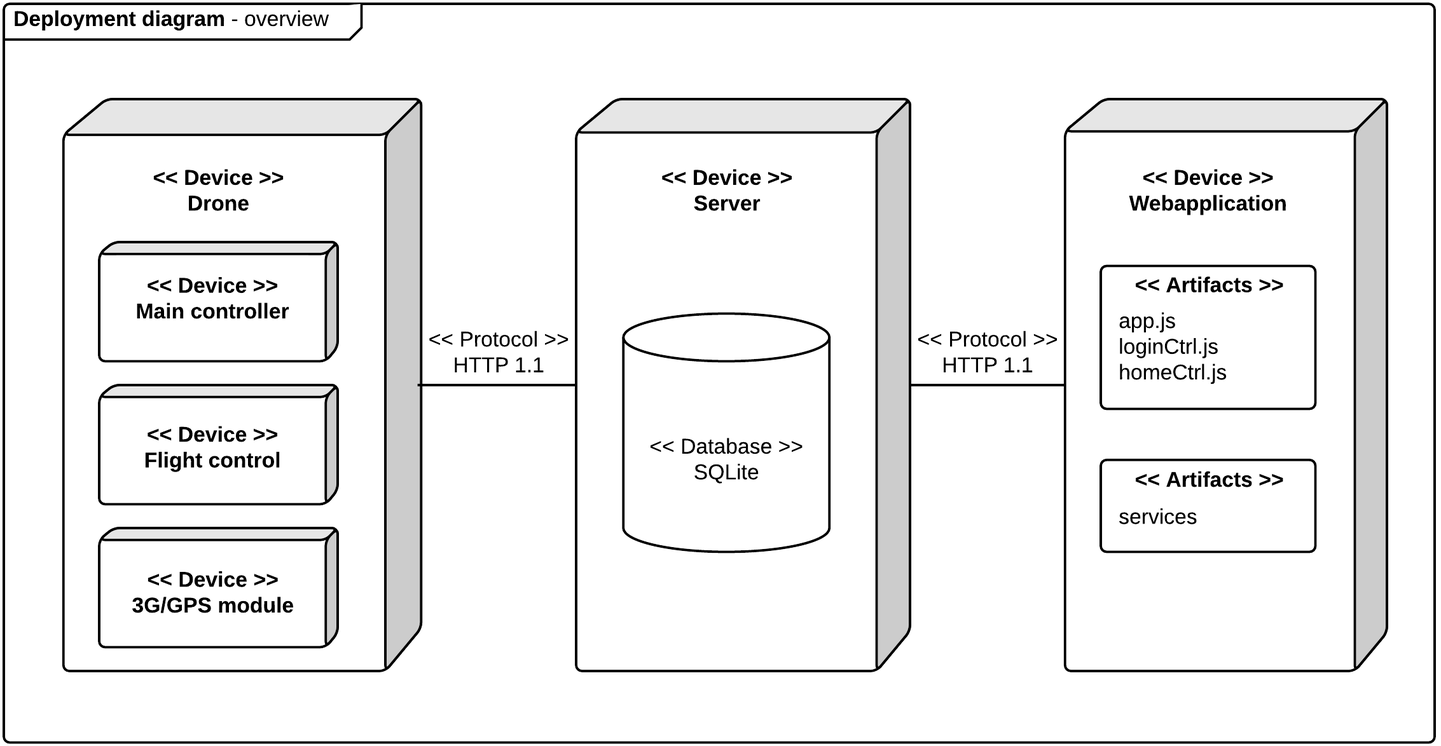
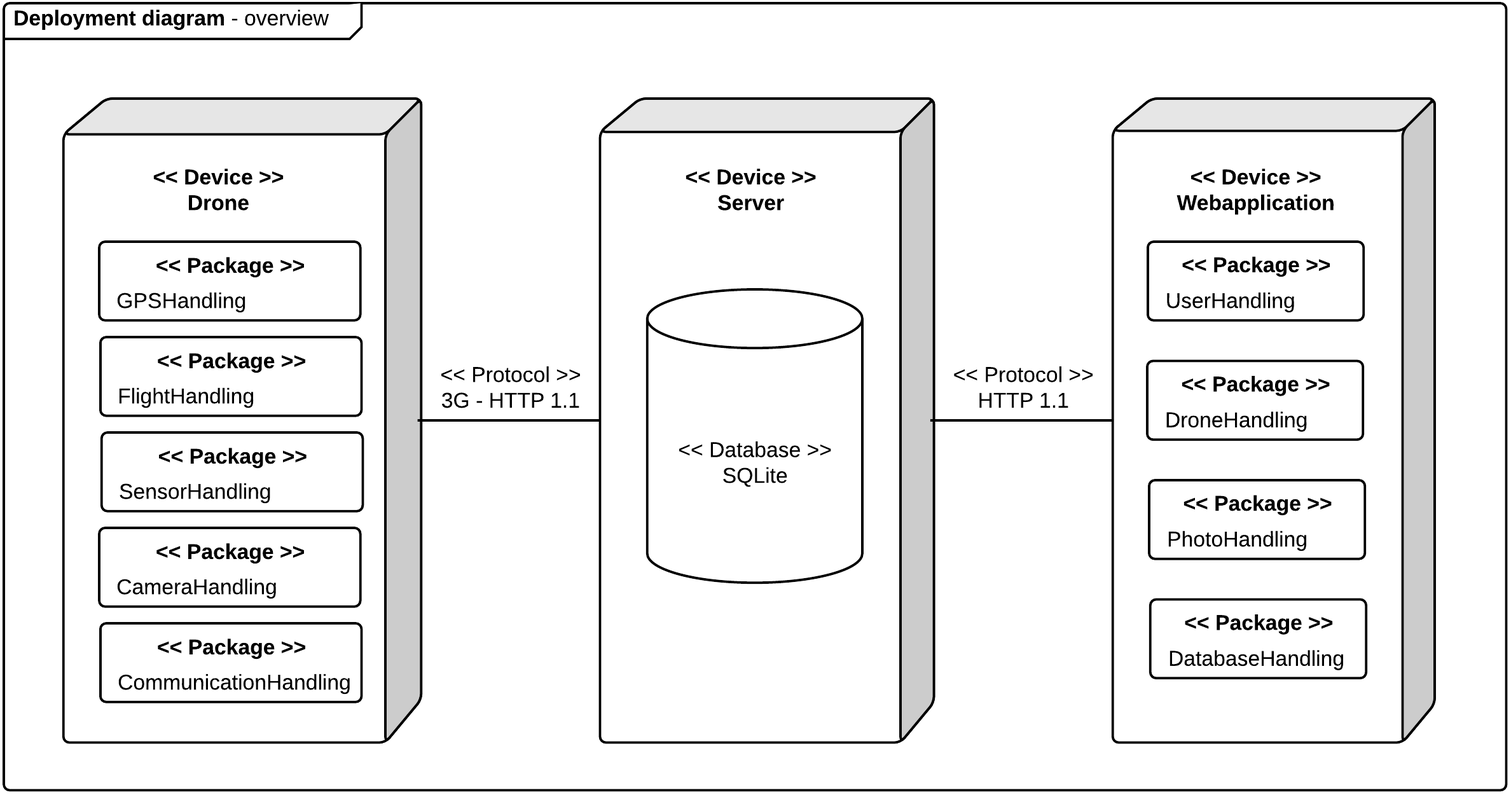
Rette iteration 1 logical view

diff --git a/5.Transition/Dokumentation/Systemarkitektur/Kapitler/software/views/logicalview_iteration_1.tex b/5.Transition/Dokumentation/Systemarkitektur/Kapitler/software/views/logicalview_iteration_1.tex
@@ -1,8 +1,7 @@
 \subsection{Iteration \#1}
-\vspace{-0.4cm}
+\vspace{-0.6cm}
 I iteration 1 arbejdes der med blokke som dækker over systemets mest grundlæggende funktionalitet. Batteri, ESC’er, motorer og sensorer tilsluttes dronen, og dronen gøres desuden i stand til oprette forbindelse til webapplikationen via 3G-shield’et.
-Server opsættes, så at basal kommunikation mellem dronen og server er muligt. Det skal bla. være muligt for dronen at uploade sin nuværende position til server. For flere detaljer vedrørende opsætning og funktionalitet af server henvises til data view'et. 
-Hvordan systemet er tiltænkt at bruges beskrives i user story nedenfor:
+Server opsættes, så basal kommunikation mellem dronen og server er muligt, bla. skal det være muligt for dronen at uploade sin nuværende position til server. For flere detaljer vedrørende opsætning og funktionalitet af server henvises til data view'et. 
 
 \subsubsection*{User story}
 \vspace{-0.4cm}
@@ -12,9 +11,9 @@ Bruger tænder dronen ved at tilslutte batteri. Main controller samt 3G/GPS modu
 \begin{figure}[H]
 	\centering
 	\includegraphics[width=1\textwidth]{Billeder/design_overview/design_overview_iteration1.png}
-	\vspace{-.5cm}
-	\caption{Design overview \#iteration 1}
-	\label{fig:design_overview_UC1}
+	\vspace{-.7cm}
+	\caption{Designoverview}
+	\label{fig:design_overview_iteration_1}
 \end{figure}
 
 
@@ -47,48 +46,49 @@ I dette afsnit vises pakkediagram tilhørende webapplikationen. De pakker der vi
 	\centering
 	\includegraphics[width=1\textwidth]{Billeder/pakke_diagrammer/iteration1_server.png}
 	\vspace{-0.5cm}
-	\caption{Overordnet pakke diagram over webapplikationen}
+	\caption{Pakkediagram webapplikationen}
 	\label{fig:iteration1_pakke_diagram_webapp}
 \end{figure}
 
 \textbf{UserHandling}\\
-Pakkens ansvar er validering af login/log ud på websitet. Pakken har også ansvaret for at hente og gemme data om den pågældende bruger.
+Pakkens ansvar er validering af login/log ud på webapplikationen. Pakken har også ansvaret for at hente og gemme data om den pågældende bruger.
 
 \textbf{DatabaseHandling}\\
-Pakkens ansvar er kommunikation imellem databasen og serveren. 
+Pakkens ansvar er kommunikation imellem database og server. 
 
 
 \newpage
 \subsubsection*{Sekvensdiagram drone}
-På sekvensdiagrammet på figur \ref{fig:Sekvens_diagram_iteration1}, vises hvilke klasser der indgår og bruges i første iteration. Af sekvensdiagrammet fremgår det, at sekvensen først startes når bruger tilslutter batteri og tænder dronen. Når der er tilkoblet forsyning initialiseres main controller samt 3G/GPS og nuværende GPS position  (longitude og latitude) opdateres. Dronens nuværende GPS position opdateres når dronen sender PUT requests til websitet. PUT requests bruges dels til at fortælle websitet at dronen er online og dels til at give websitet information om dronens nuværende position. 
+På sekvensdiagrammet på figur \ref{fig:Sekvens_diagram_iteration1}, vises hvilke klasser der indgår og bruges i første iteration. Af sekvensdiagrammet fremgår det, at sekvensen først startes når bruger tilslutter batteri og tænder dronen. Når der er tilkoblet forsyning initialiseres main controller samt 3G/GPS og nuværende GPS position  (longitude og latitude) opdateres. Dronens nuværende GPS position sended via PUT requests til webapplikationen. PUT requests bruges dels til at fortælle webapplikationen at dronen er online og dels til at give webapplikationen information om dronens nuværende position. 
 
 %kommentar
 \begin{figure}[H]
 	\centering
 	\includegraphics[width=1\textwidth]{Billeder/sekvens/sekvens_iteration1}
-	\caption{Sekvens diagram \#iteration 1}
+	\caption{Overordnet sekvensdiagram}
 	\label{fig:Sekvens_diagram_iteration1}
 \end{figure}
 \newpage
 
-På figur \ref{fig:Sekvens_diagram_initialget} og figur \ref{fig:Sekvens_diagram_putDroneStatus} bliver 3G modulet yderligere uddybet.\\
-\ref{fig:Sekvens_diagram_initialget} viser hvilke klasser der anvendes til at hente data fra serveren. 
+Da boundary klassen \textit{3G} benytter tre underliggende klasser til håndtering af GET og PUT requests er sekvensdiagrammet på figur \ref{fig:Sekvens_diagram_iteration1} simplificeret. Sekvensdiagrammerne på figur \ref{fig:Sekvens_diagram_initialget} og \ref{fig:Sekvens_diagram_putDroneStatus} vises mere detaljeret hvordan 3G og underliggende klasser bruges til GET og PUT. \\
+
+Sekvensdiagrammet på figur \ref{fig:Sekvens_diagram_initialget} viser hvilke klasser der anvendes til håndtering af GET. 
 
 \begin{figure}[H]
 	\centering
 	\includegraphics[width=1\textwidth]{Billeder/sekvens/sekvens_iteration1_initialget}
-	\caption{Sekvens diagram \#iteration 1 - initialget}
+	\caption{Sekvensdiagram - initialget}
 	\label{fig:Sekvens_diagram_initialget}
 \end{figure}
 
 \vspace{.5cm}
 
-De data der hentes med GET requestet, bruges sammen med PUT requestet. For at kunne udføre et PUT request, skal data der ønskes sendt til server stemme overens med det data der i forvejen ligger på serveren.
+Sekvensdiagrammet på figur \ref{fig:Sekvens_diagram_putDroneStatus} viser hvilke klasser der anvendes til håndtering af PUT. 
 
 \begin{figure}[H]
 	\centering
 	\includegraphics[width=1\textwidth]{Billeder/sekvens/sekvens_iteration1_putdronestatus}
-	\caption{Sekvens diagram \#iteration 1 - putDroneStatus}
+	\caption{Sekvensdiagram - putDroneStatus}
 	\label{fig:Sekvens_diagram_putDroneStatus}
 \end{figure}
 
@@ -96,12 +96,12 @@ De data der hentes med GET requestet, bruges sammen med PUT requestet. For at ku
 \newpage
 
 \subsubsection*{Sekvensdiagram webapplikation}
-På figur \ref{fig:Sekvens_diagram_login} ses sekvens diagrammet over login på webappplikationen. På diagrammet vises det at useren først bliver ført til næste side ved succesfuld login. Diagrammet viser også kommunikationen med CRUDServiceDrone som kommunikerer med databasen. Diagrammet viser også hvordan AuthenticationServices setter den givet users data inden useren bliver ført vider i systemet.
+På figur \ref{fig:Sekvens_diagram_login} ses sekvens diagrammet over login på webappplikationen. På diagrammet vises det at systemets bruger først bliver ført til næste side ved succesfuld login. Diagrammet viser også kommunikationen med CRUDServiceDrone som kommunikerer med databasen. Ydermere viser diagrammet hvordan AuthenticationServices håndterer bruger data.
 
 \begin{figure}[H]
 	\centering
 	\includegraphics[width=1\textwidth]{Billeder/sekvens/login_sq_diagram.png}
-	\caption{Sekvens diagram login}
+	\caption{Sekvensdiagram - login}
 	\label{fig:Sekvens_diagram_login}
 \end{figure}
 \newpage
@@ -109,14 +109,14 @@ På figur \ref{fig:Sekvens_diagram_login} ses sekvens diagrammet over login på 
 
 \subsubsection*{Klassediagram drone}
 \vspace{-0.2cm}
-Figur \ref{fig:classDiagram_iteration1} vises et klassediagram tilhørende iteration 1. Klassediagrammet viser iterationens vigtigste klasser, samt deres tilhørende metoder og attributter. På den følgende side forefindes en kort beskrivelse klasserne og deres metoder.
+På figur \ref{fig:classDiagram_iteration1} vises et klassediagram som viser iterationens klasser, samt deres tilhørende metoder og attributter. På den følgende side forefindes en kort beskrivelse klasserne og deres ansvarsområder.
 
 %kommentar
 \begin{figure}[H]
 	\centering
 	\includegraphics[width=1\textwidth]{Billeder/klasse_diagrammer/classdiagram_iteration1.png}
 	\vspace{-0.5cm}
-	\caption{Klassediagram \#iteration 1}
+	\caption{Klassediagram drone}
 	\label{fig:classDiagram_iteration1}
 \end{figure}
 
@@ -126,62 +126,61 @@ Figur \ref{fig:classDiagram_iteration1} vises et klassediagram tilhørende itera
 Main.cpp filen bruges til at sætte arduino board korrekt op, bla. sættes baudrate på de forskellige serielle forbindelser. Desuden bruges Main.cpp til at kalde og eksekverer forskellige klasse, objekter og funktioner.
 
 \textbf{GPS} \\
-GPS klassen er implementeret som en abstract klasse, idet den ikke selv har nogle metoder den skal bruge, men med virtuelle metoder der sikrer at de implementeres i de afledte klasser. 
-Init og updateGPSPosition er valgt til at være virtuelle klasser, hvilket gør at de skal implementeres uanset hvilken GPS der bruges. Klassen er lavet fordi der i udgangspunkt var mulighed for at bruge 3 forskellige slags GPS modes med 3G/GPS shieldet. 
+GPS klassen er implementeret som en abstract klasse. Init og updateGPSPosition er lavet som virtuelle metoder, hvilket betyder de skal implementeres i alle afledte klasser. GPS klassen er lavet fordi 3G/GPS shieldet kunne bruges i 3 forskellige GPS modes. 
 
 \textbf{StandaloneGPS}\\
 Denne klasse er ansvarlig for al kommunikation med GPS'en når standalone mode er valgt. 
 
 \textbf{GetAndPut} \\
-GetAndPut klassen er den klasse der er tættest på hardwaren. Klassen indeholder de http metoder der bruges til kommunikation mellem dronen og serveren. 
+GetAndPut klassen er den klasse der er tættest på hardwaren. Klassen indeholder http metoder der bruges til kommunikation mellem dronen og serveren. 
 
 \textbf{Communication} \\
-Communication klassen er den øverste klasse og den håndterer sammen med andre klasser, alt der har med 3G at gøre.
+Communication klassen styrer alt der har med 3G kommunikation at gøre.
 
 \textbf{EventHandler} \\
-EventHandleren er den klasse der håndterer Events. EventHandleren er bindeledet mellem communication- og GetAndPut klassen. EventHandleren sorterer eventID'et fra de data den modtager og returnerer værdien til communication klassen. 
+EventHandleren klassen håndterer Events, og bruges som bindeled mellem communication- og GetAndPut klassen. EventHandleren sorterer eventID'et fra data der modtager og returnerer værdien af eventID til communication klassen. 
 
 
 \newpage
 
-\subsubsection*{Klassediagram website}
+\subsubsection*{Klassediagram webapplikation}
 \vspace{-0.2cm}
-Figur \ref{fig:classDiagram_login} viser klassediagrammet tilhørende websitet for iteration 1.
+Figur \ref{fig:classDiagram_webapplikation} viser klassediagrammet tilhørende webapplikation tilhørende iteration 1.
 \vspace{-0.2cm}
 \begin{figure}[H]
 	\centering
 	\includegraphics[width=1\textwidth]{Billeder/klasse_diagrammer/login_class_diagram.png}
 	\vspace{-0.5cm}
-	\caption{Klassediagram login}
-	\label{fig:classDiagram_login}
+	\caption{Klassediagram webapplikation}
+	\label{fig:classDiagram_webapplikation}
 \end{figure}
 
 \vspace{-0.2cm}
 
 \textbf{login} \\
-Denne klasse er view'et tilhørende iteration et. Denne klasse sammen med loginCtrl skaber det endelig view som brugeren ser i sin browser når han besøger siden.
+Denne klasse er view'et tilhørende iteration 1. Sammen med loginCtrl skaber Login klassen det view som bruger ser i sin browser.
 
 \textbf{loginCtrl} \\
-LoginCtrl er controller klassen som er forbundet med view klassen via two-way databinding. Klassen uddelegere også opgaver til dens services.
+LoginCtrl er en controller klasse som er forbundet med view klassen via two-way databinding. Klassen uddelegere også opgaver til dens services.
 
 \textbf{AuthenticationServices} \\
-AuthenticationServices klassen har ansvaret for at afgør om user er authenticated eller ej. Hvis user er authenticated bliver han redirected til websitets home-page. Klassen gør brug af UserServices klassen til at gemme information om den user der er logget ind i systemet.
+AuthenticationServices klassen er ansvarlig for at afgøre om bruger er authenticated eller ej. Hvis bruger er authenticated bliver han/hun redirected til webapplikations home-page. Klassen gør brug af UserServices klassen til at gemme information om den bruger der er logget ind på webapplikationen.
 
 \textbf{UserServices}\\
-UserServices bruges til at gemme information omkring hvilke bruger der er logget ind i systemet.
+UserServices bruges til at gemme information om hvilken bruger der er logget ind på webapplikationen.
 
 \textbf{CRUDServicesDrone}
-Denne klasse fungere som bindeled imellem server og webapplikation. Klassen indeholder alt logikken omkring kommunikation til serveren, alle der vil kommunikere med serveren i systemet skal benytte sig af denne klasse. Igennem denne service er det muligt at hente, opdater og poste data til serveren.
+Denne klasse bruges som bindeled imellem server og webapplikation. Klassen indeholder alt logik til kommunikation til serveren. Hver gang noget kommunikere med serveren benyttet klassen. Ved brug af CRUDServicesDrone kan man hente, opdatere og poste data til serveren.
 
 
 \subsubsection*{State machine diagram}
 \vspace{-0.1cm}
-I state machine diagrammet på figur \ref{fig:Statemachine_iteration1}, vises de forskellige states der eksisterer i iteration 1 og hvordan flowet imellem dem ser ud. Der eksisterer givet vis kun 2 states i iteration 1, men state machinen er medtaget fordi den på nem og overskuelig vis illustrerer systemflowet.
+I state machine diagrammet på figur \ref{fig:Statemachine_iteration1}, vises de forskellige states der eksisterer i iteration 1 og hvordan flowet imellem dem ser ud. Der eksisterer givet vis kun 1 state i iteration 1, men state machinen er medtaget fordi der bygges ovenpå den i de efterfølgende iterationer.
 %kommentar
 \begin{figure}[H]
 	\centering
 	\includegraphics[width=1\textwidth]{Billeder/statemachine/State_iteration1.png}
 	\vspace{-0.5cm}
-	\caption{Statemachine \#iteration 1}
+	\caption{State machine}
 	\label{fig:Statemachine_iteration1}
 \end{figure}

diff --git a/5.Transition/Dokumentation/Systemarkitektur/Kapitler/software/views/_n+1.tex b/5.Transition/Dokumentation/Systemarkitektur/Kapitler/software/views/_n+1.tex
@@ -15,13 +15,13 @@ N + 1 view modellen bruges til at beskrive software fra forskellige views. Model
 
 \newpage
 
-\subsection{View beskrivelser}
+\subsection{View beskrivelse}
 
 \textbf{Use case view}\\
-Use case viewet består af use case diagrammer, der er udviklet ud fra bruges synspunkt og som bruges til at beskrive systemets forskellige brugsscenarier. Alle udarbejdede use case diagrammer forefindes i kravspecifikationen.
+Use case viewet består af use case beskrivelser, der er udviklet ud fra bruges synspunkt og som bruges til at beskrive systemets forskellige brugsscenarier. Alle udarbejdede use case beskrivelser forefindes i kravspecifikationen.
 
 \textbf{Logical view}\\
-Logical viewet består af følgende fire diagrammer: Designoverview, pakke-, sekvens-, klasse- og state machine diagrammer.
+Logical viewet bygges op af følgende fem diagrammer: Designoverview, pakke-, sekvens-, klasse- og state machine diagrammer.
 Først udformes designoverview. Dernæst laves pakke og sekvensdiagrammer, og når de er udformet laves klassediagrammer. Til sidst udarbejdes state machines, som bruges til at beskrive flow mellem forskellige states.
 
 \textbf{Process view}\\
@@ -31,7 +31,8 @@ Process viewet beskriver de forskellige processer/tråde i systemet og hvordan s
 I data viewet beskrives layout af data der gemmes og hvordan det lagres. Desuden beskrives hvordan data sendes rundt i systemet og hvordan database tilgås. 
 
 \textbf{Deployment view}\\
-I deployment viewet kigges på systemets mest grundlæggende og overordnede klasser. Her beskrives det hvilke forskellige softwareklasser der bruges i hver af de grundlæggende klasser. Desuden beskrives hvilke protokoller der er anvendt i systemet, fx. layout af meddelelser med header/start/stop.   
+I deployment viewet vises hvilke software pakker der bruges i systemet og hvor de bruges. Desuden beskrives hvilke protokoller der er anvendt i systemet, fx. layout af meddelelser med header/start/stop. 
+  
 
 \textbf{Implementation view}\\
 I implementations viewet vises og beskrives hvilke værktøjer der er benyttet til projektet og hvordan disse værktøjer er sat op. Det beskrives også hvilke filer systemet er bygget af og hvordan disse filer skal linkes sammen. 

diff --git a/5.Transition/Dokumentation/Systemarkitektur/Kapitler/software/views/logicalview.tex b/5.Transition/Dokumentation/Systemarkitektur/Kapitler/software/views/logicalview.tex
@@ -1,22 +1,22 @@
 \section{Logical view}
-\vspace{-0.4cm}
+\vspace{-0.5cm}
 Logical view'et er udarbejdet efter de 4 iterationer defineret i kravspecifikationen. Den første iteration dækker systemets grundfunktionalitet, mens de øvrige iterationer bruges til at tilføje funktionalitet til systemet. 
 I logical view'et vil der forekomme diagrammer som er gråskraveret. De elementer der er gråskraverede er udarbejdet i tidligere iteration. Iteration 1 og 2 er designet og implementeret, mens iteration 3 og 4 kun er designet.
   
-Som beskrevet består logical viewet af designoverview, pakke-, sekvens-, klasse- og state machine diagrammer. Fælles for alle diagrammerne er, at de udformes ved brug af applikationsmodellen.
+Som beskrevet i afsnit 1.1.1 består logical viewet af designoverview, pakke-, sekvens-, klasse- og state machine diagrammer. Fælles for alle diagrammerne er, at de udformes ved brug af applikationsmodellen.
 
-\subsection{Applikationsmodel}
-\vspace{-0.4cm}
-Applikationsmodellen tager udgangspunkt i use cases beskrevet i kravspecifikationen og domain modellen, se figur \ref{fig:domain_model}. Domain modellen bruges til at identificere softwarepakke og deres tilhørende klasser. Desginoverview og sekvensdiagrammer fortæller og viser hvordan de forskellige klasser kommunikerer, og state machines bruges til at vise systemflow.
+\subsection*{Applikationsmodel}
+\vspace{-0.5cm}
+Applikationsmodellen tager udgangspunkt i use cases beskrevet i kravspecifikationen og domain modellen, se figur \ref{fig:domain_model}. Use cases og domain modellen bruges til at identificere softwarepakke og deres tilhørende klasser. Designoverview og sekvensdiagrammer fortæller og viser hvordan de forskellige klasser kommunikerer, mens state machines bruges til at vise systemflow.
 
 
 \input{kapitler/software/views/logicalview_iteration_1}
 
 \newpage
-\input{kapitler/software/views/logicalview_iteration_2}
+%\input{kapitler/software/views/logicalview_iteration_2}
 
 \newpage
-\input{kapitler/software/views/logicalview_iteration_3}
+%\input{kapitler/software/views/logicalview_iteration_3}
 
 \newpage
-\input{kapitler/software/views/logicalview_iteration_4}
+%\input{kapitler/software/views/logicalview_iteration_4}

diff --git a/5.Transition/Dokumentation/Systemarkitektur/Kapitler/domain_model.tex b/5.Transition/Dokumentation/Systemarkitektur/Kapitler/domain_model.tex
@@ -5,7 +5,7 @@ I kravspecifikation beskrives hvad der sker ved interaktion med systemet. Mens s
 
 På figur \ref{fig:domain_model} vises domain model tilhørende systemet. De fire øverste enheder i domain modellen dækker ansvarsområder som har med systemets webapplikation at gøre. De resterende enheder er alle tilknyttet ansvarsområder der omhandler dronen.
 
-På domain modellen vises det, at bruger kommunikerer med dronen gennem en website. Websiden har forbindelse til en server som har forbindelse til dronens main controller. Det vises desuden at kommunikation mellem server og main controller går gennem det mobile 3G netværk. Under flyvning styrer main controlleren både kamera, GPS, afstandssensorer og dronens motorer. 
+På domain modellen vises det, at bruger tilgår systemet via en webapplikation. Webapplikationen har forbindelse til en server, som yderligere har forbindelse til dronens main controller. Det vises desuden at kommunikation mellem server og main controller går gennem det mobile 3G netværk. Under flyvning styrer dronens main controller både kamera, GPS, afstandssensorer og dronens motorer. 
 
 \vspace{-5pt}
 %kommentar
@@ -31,7 +31,7 @@ Controller klasser indeholder systemets domænelogik og står for at kontrollere
 
 \vspace{1cm}
 
-Domain modellen bruges både til beskrivelsen af systemets hardware og software arkitektur. Men der gøres primært brug domain modellen i software arkitektur afsnittet. I software arkitekturen bruges domain modellens klasser bla. til at danne grundlag for softwareklasser, klassenavne og klassernes indbyrdes forhold.
+Domain modellen bruges både til beskrivelsen af systemets hardware og software arkitektur. Men der gøres primært brug domain modellen i software arkitektur afsnittet. I software arkitekturen bruges domain modellen bla. til at danne grundlag for softwareklasser, klassenavne og klassernes indbyrdes forhold.
 
 
 

diff --git a/5.Transition/Dokumentation/Systemarkitektur/Kapitler/software/views/compiler.tex b/5.Transition/Dokumentation/Systemarkitektur/Kapitler/software/views/compiler.tex
@@ -32,7 +32,7 @@ Toolchain menuen vælges. I configuration vælges All Configurations.
 
 I menuen for GNU C++ compiler vælges Symbols. Her tilføjes clockfrekvens for arduino chippen og version af Arduino IDE.
 For at tilføje clockfrekvens skrives fx: F\_CPU = 16000000L, hvis ens clockfrekvens er 16MHz.
-Arduino IDE version skrives: ARDUINO=106, 106 for version 1.06. \\ \\
+Arduino IDE version skrives: ARDUINO=106, 106 for version 1.06. \\
 
 Næste trin er at opsætte Directories, det er stierne til de eksterne biblioteker til Atmel. Arduino har nogle biblioteker, som Atmel skal bruge, så dem skal der linkes til.
 Bibliotekerne er henholdsvis Arduino.h og pins\_arduino.h
@@ -42,7 +42,7 @@ Stien til Arduino IDE'et er installations stien og resten af stien er som vist p
 	\includegraphics[width=1\textwidth]{Billeder/implementation/Howtoguide/atmel_directories.png}
 \end{figure}
 
-Gå til Optimization menuen under GNU C++ compiler og sæt flueben ved: Prepare functions for garbage collection (-ffunction-sections).\\ \\
+Gå til Optimization menuen under GNU C++ compiler og sæt flueben ved: Prepare functions for garbage collection (-ffunction-sections).\\
 
 I menuen for GNU Linker vælges Libraries. Her tilføjes core filen fra tidligere samt den sti den ligger i. En vigtig detalje er at core skal flyttes op over libm.
 \begin{figure}[H]
@@ -95,7 +95,7 @@ WayPointsHandleren håndterer alle GET og PUT metoder der har med  waypoints at 
 
 
 
-
+\newpage
 
 \subsection{Opsætning af serial programmerings link}
 

diff --git a/5.Transition/Dokumentation/Systemarkitektur/Kapitler/software/views/deploymentview.tex b/5.Transition/Dokumentation/Systemarkitektur/Kapitler/software/views/deploymentview.tex
@@ -1,7 +1,9 @@
 \section{Deployment view}
 
-I dette afsnit beskrives hvilke softwareklasser der bruges i systemets mest grundlæggende moduler. Desuden beskrives hvilke protokoller der anvendes mellem de grundlæggende moduler i systemet, fx. beskrives layout af meddelelser der sendes mellem drone og server.
+I dette afsnit beskrives hvilke softwareklasser der bruges i systemet og hvor de bruges. Desuden beskrives hvilke protokoller der er anvendt i systemet, fx. beskrives layout af meddelelser der sendes mellem drone og server.
 
+
+På illustrationen figur \ref{fig:deployment_generel} vises systemet opdelt i de 3 mest grundlæggende hardware dele. Ydermere vises det hvilke software pakker der bruger i hver af de 3 hardware dele.  
 
 \begin{figure}[H]
 \centering
@@ -10,9 +12,7 @@ I dette afsnit beskrives hvilke softwareklasser der bruges i systemets mest grun
 \label{fig:deployment_generel}
 \end{figure}
 
-
-På illustrationen figur \ref{fig:deployment_generel} vises systemet opdelt i de 3 mest grundlæggende moduler. Som det ses af illustrationen består systemet overordnet set af drone, webapplikation og sever. I de følgende afsnit vil de tre overordnede moduler blive pakket op og forklaret hver for sig, og desuden vil HTTP 1.1 protokollen blive beskrevet.
-
+På den følgende side forklares der om HTTP 1.1 protokollen. Indledningsvis beskrives det hvorfor HTTP protokollen bruges, dernæst beskrives det hvordan protokollen benyttes. 
 
 
 \newpage

diff --git a/5.Transition/Dokumentation/Systemarkitektur/Kapitler/software/software.tex b/5.Transition/Dokumentation/Systemarkitektur/Kapitler/software/software.tex
@@ -1,6 +1,6 @@
 \chapter{Software}
 
-I det følgende afsnit beskrives systemet softwarearkitektur vha. N+1 view modellen og en række UML diagrammer. Der gøres bla. brug af state machines, designoverview-, sekvens-, klasse- og pakkediagrammer. N+1 view modellen tager udgangspunkt i de use cases der er beskrevet i kravspecifikationen, hvilket betyder at softwarearkitekturen er fuldt ud use case baseret.
+I det følgende afsnit beskrives systemet softwarearkitektur vha. N+1 view modellen og en række UML diagrammer. I afsnittet gøres der bla. brug af state machines, designoverview-, sekvens-, klasse- og pakkediagrammer. N+1 view modellen tager udgangspunkt i de use cases der er beskrevet i kravspecifikationen, hvilket betyder at softwarearkitekturen er fuldt ud use case baseret.
 
 \input{kapitler/software/views/_n+1}
 
@@ -8,16 +8,16 @@ I det følgende afsnit beskrives systemet softwarearkitektur vha. N+1 view model
 \input{kapitler/software/views/logicalview}
 
 \newpage
-\input{kapitler/software/views/procesview}
+%\input{kapitler/software/views/procesview}
 
 \newpage
-\input{kapitler/software/views/dataview}
+%\input{kapitler/software/views/dataview}
 
 \newpage
-\input{kapitler/software/views/deploymentview}
+%\input{kapitler/software/views/deploymentview}
 
 
 \newpage
-\input{kapitler/software/views/implementationview}
+%\input{kapitler/software/views/implementationview}
 
 

diff --git a/5.Transition/Dokumentation/Systemarkitektur/Kapitler/software/views/implementationview.tex b/5.Transition/Dokumentation/Systemarkitektur/Kapitler/software/views/implementationview.tex
@@ -1,8 +1,6 @@
 \section{Implementation view}
 
-I implementation view'et beskrives elementer som uden forklaring, ville være svære at forstå og bruge for udefrakommende. 
-
-Indledningsvis beskrives de værktøjer der er benyttet til opsætning af dronens main controller, et arduino 2560 board. Dernæst beskrives værktøjer der er brugt til udvikling af server og webapplikation. Til sidst i afsnittet beskrives hvordan interne timere på arduino boardet er sat op til at genererer PWM signaler.  
+I implementation view'et beskrives elementer som uden forklaring, ville være svære at forstå og bruge for udefrakommende. Indledningsvis beskrives de værktøjer der er benyttet til opsætning af dronens main controller, et arduino 2560 board. Dernæst beskrives værktøjer der er brugt til udvikling af server og webapplikation. Til sidst i afsnittet beskrives hvordan interne timere på arduino boardet er sat op til at genererer PWM signaler.  
 
 \input{kapitler/software/views/compiler}
 

diff --git a/5.Transition/Dokumentation/Systemarkitektur/Kapitler/software/views/logicalview_iteration_3.tex b/5.Transition/Dokumentation/Systemarkitektur/Kapitler/software/views/logicalview_iteration_3.tex
@@ -109,9 +109,9 @@ Klassen eneste funktion er at kontrollere afstanden til eventuelle objekter fora
 
 \newpage
 
-\subsubsection*{Klassediagram webapplikation}
+\subsubsection*{Klassediagram server}
 
-Figur \ref{fig:classDiagram_iteration3} vises klassediagrammet tilhørende iteration 3 for webapplikationen. 
+Figur \ref{fig:classDiagram_iteration3} vises klassediagrammet tilhørende iteration 3 for server. 
 
 %kommentar
 \begin{figure}[H]

diff --git a/5.Transition/Dokumentation/Systemarkitektur/Systemarkitektur.tex b/5.Transition/Dokumentation/Systemarkitektur/Systemarkitektur.tex
@@ -13,10 +13,10 @@
 \mainmatter														% Hovedindhold - nummereres fra side 1
 
 
-\include{Kapitler/Intro/Intro_side}
-\include{Kapitler/domain_model}
-\include{Kapitler/BDD/BDD}
-\include{Kapitler/IBD/_IBD}
+%\include{Kapitler/Intro/Intro_side}
+%\include{Kapitler/domain_model}
+%\include{Kapitler/BDD/BDD}
+%\include{Kapitler/IBD/_IBD}
 
 \include{kapitler/software/software}
 

diff --git a/5.Transition/Dokumentation/Systemarkitektur/Kapitler/software/views/client.tex b/5.Transition/Dokumentation/Systemarkitektur/Kapitler/software/views/client.tex
@@ -7,6 +7,8 @@ For at kunne opsætte et udviklings miljø til client applikationen skal source 
 	$ git clone https://github.com/Opstrup/drone_frontend
 \end{lstlisting}
 
+\vspace{-1cm}
+
 \subsubsection*{Mappestruktur}
 Dette underafsnit vil forklare om den overordnede mappe struktur i projektet og give en overordnet forståelse af angular client udvikling. \\
 
